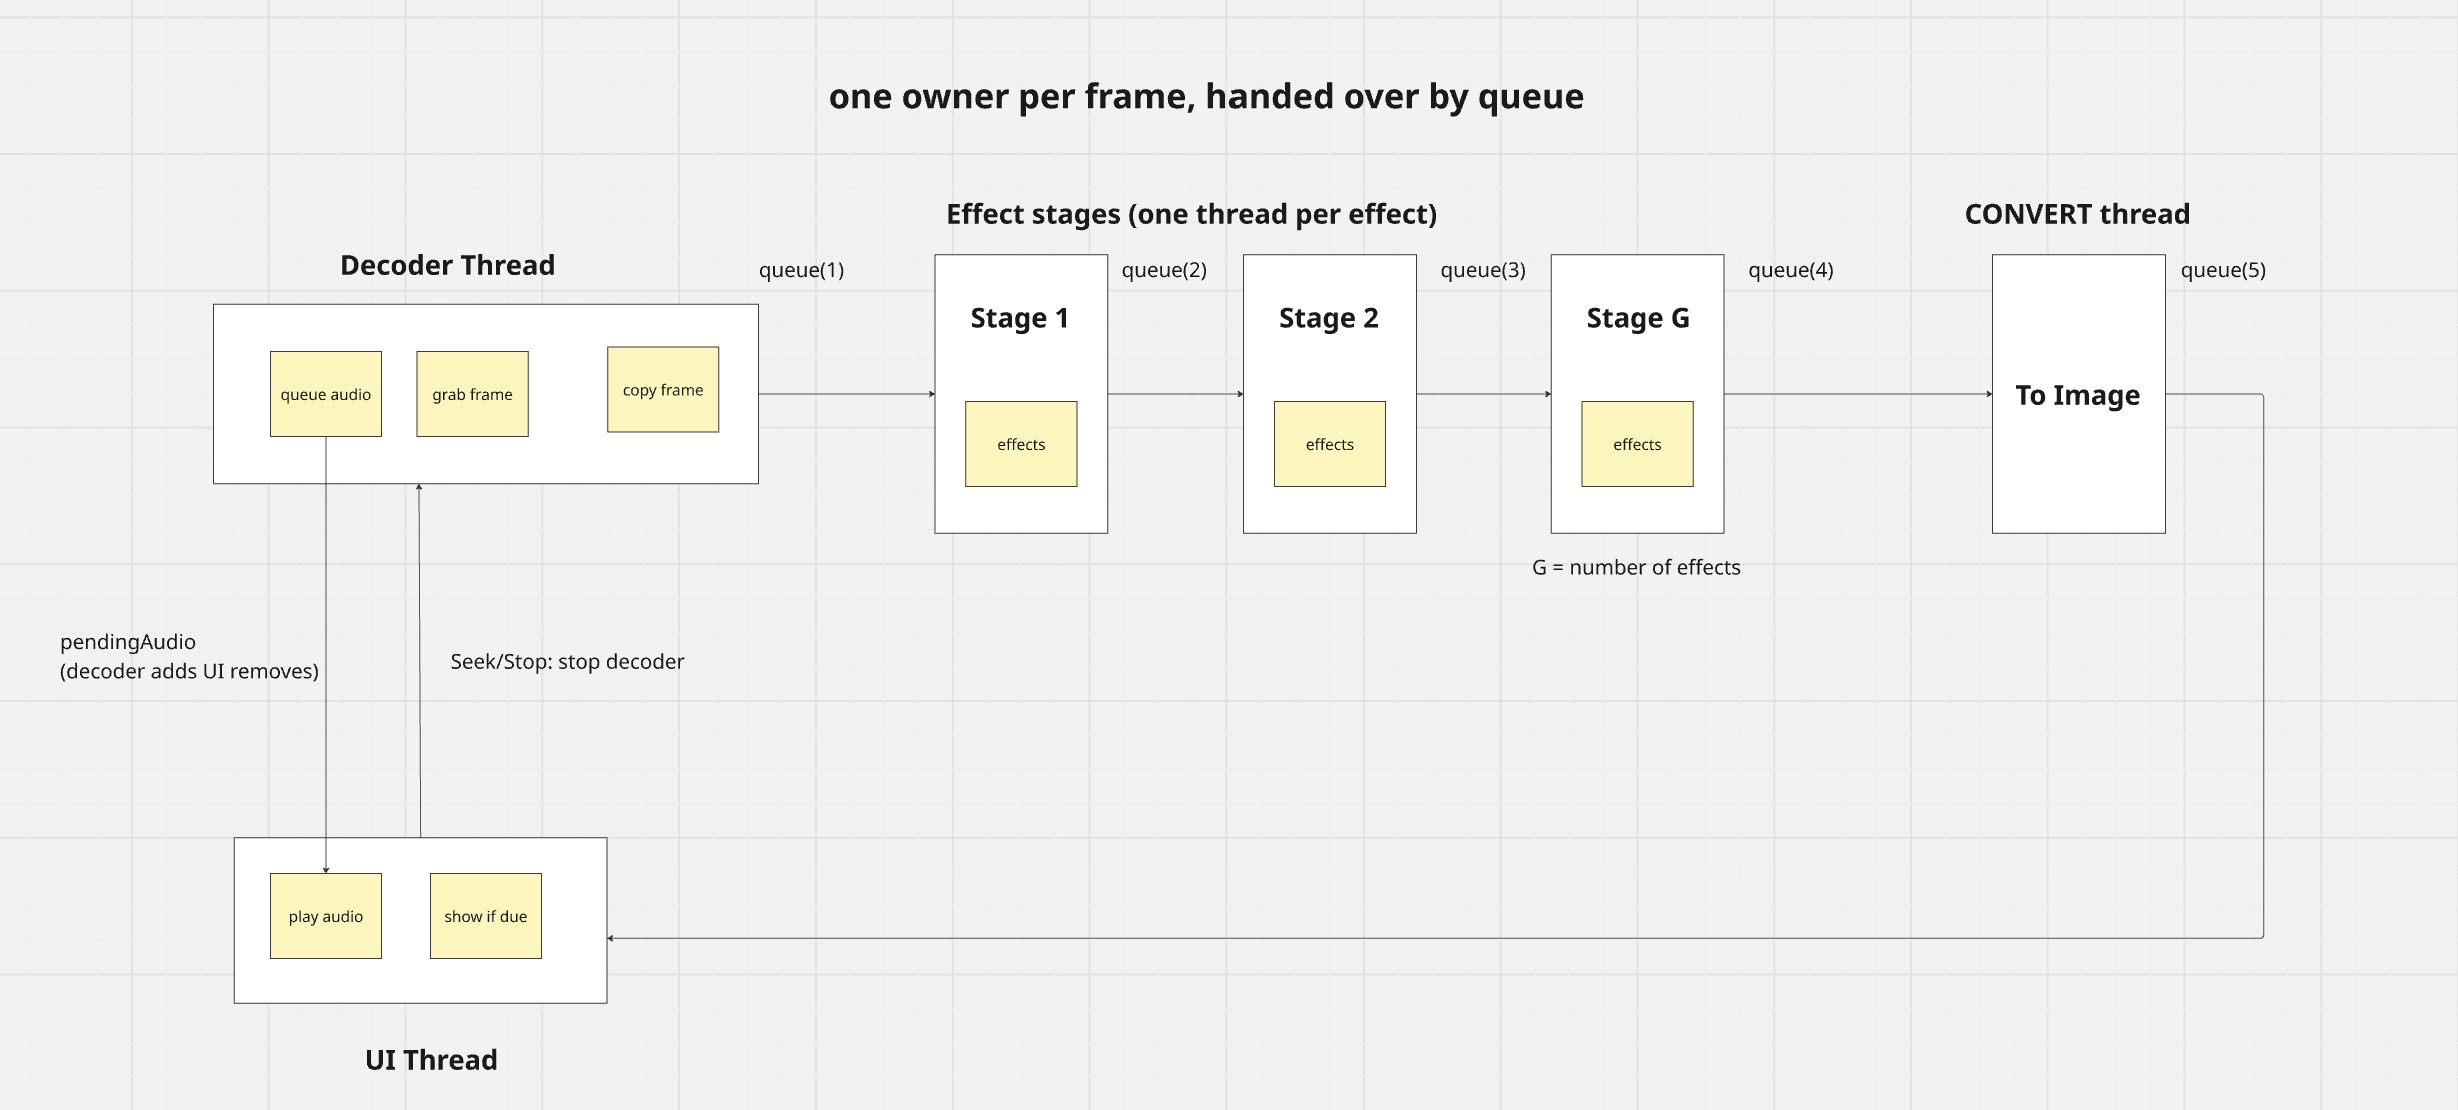
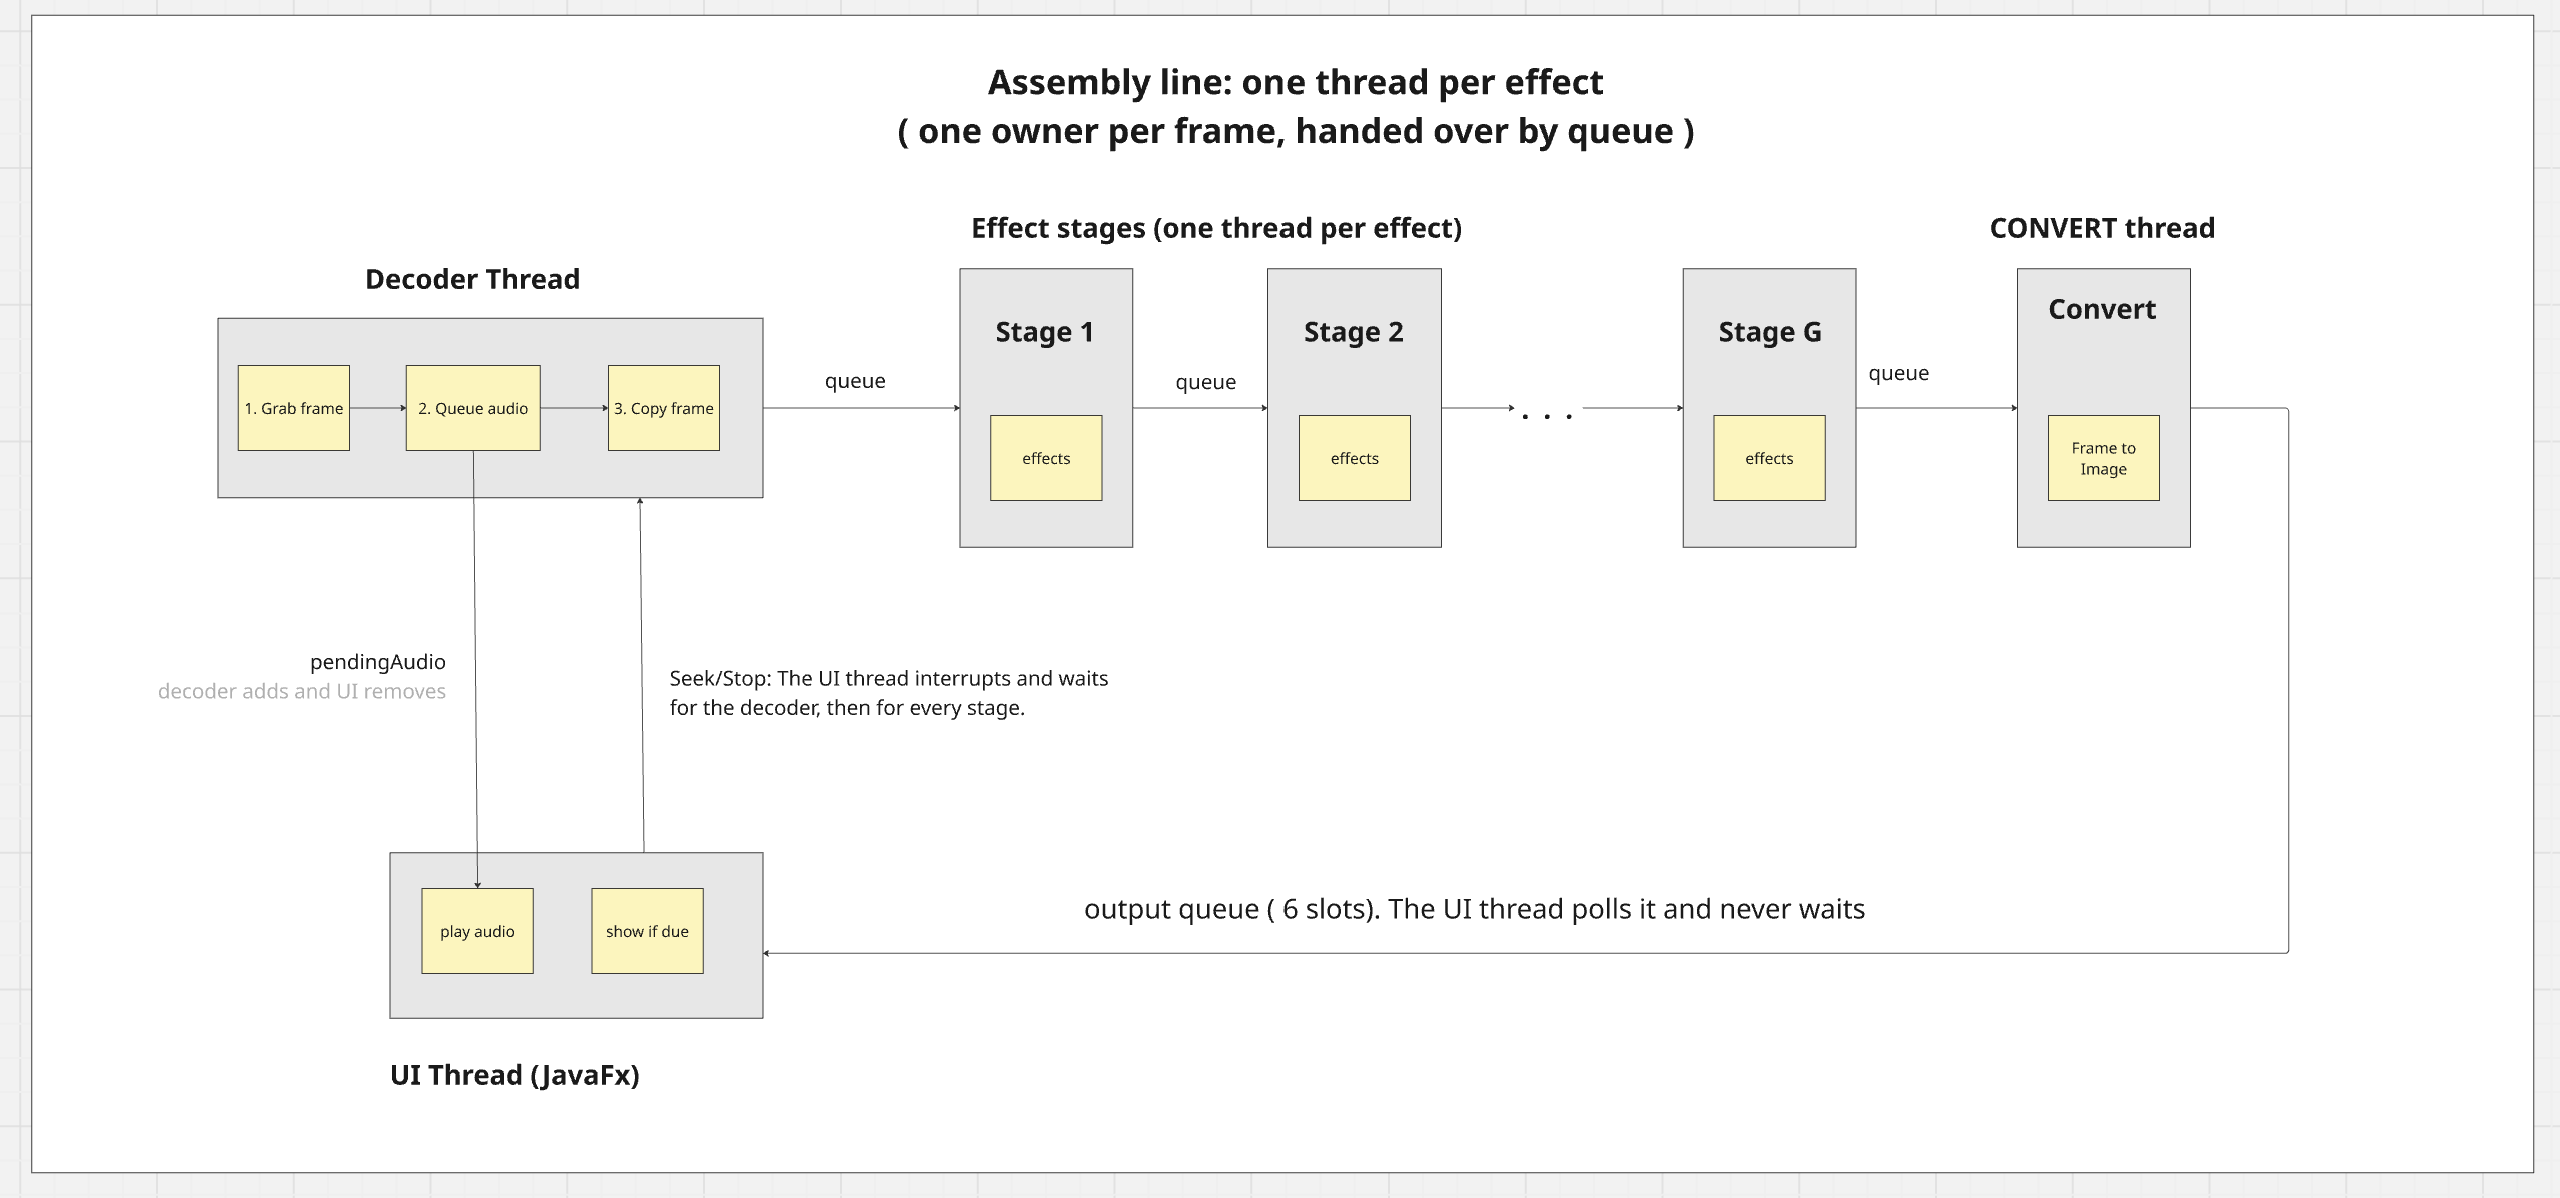
docs(readme): Update README with new pictures and explanations.

diff --git a/README.md b/README.md
@@ -30,6 +30,8 @@ In Eclipse, use *Run As > Maven build* with the same goals. Put the arguments in
 
 ![debug_time](assets/debug_time.png)
 
+==> More explaination how to read this in [Performance](#6-performance)
+
 ### Choosing effects (Part 1)
 
 Effects are chosen on the command line and applied **in the order typed**. They can be repeated and stacked.
@@ -51,6 +53,17 @@ Effects are chosen on the command line and applied **in the order typed**. They 
 `-nssn` means number, scratch, scratch, number. `--help` lists everything. Adding an effect needs one new line in
 `FrameProcessorOption`.
 
+### What changed for Part 1
+
+| File | What changed |
+|---|---|
+| `FrameProcessorOption` (new) | An enum with one line per effect, holding its short flag, long name, help text and constructor. Parsing and `--help` both read it, so adding an effect is one new line. |
+| `CommandLineController` | New `parseLongOption()` and `parseShortFlags()` replace the old if/else chain, so stacked flags (`-jfddn`), long names and repeated effects work. Every effect is created in the order typed and kept in a list, which `getFrameProcessors()` returns. `--help` alone is allowed, and `--help` with anything else is an error. `--help` now prints one line per effect from `FrameProcessorOption`. |
+| `VideoPlayerApp` | Passes `getFrameProcessors()` to the controller. |
+| `VideoPlayerController` | Has a new `frameProcessors` constructor parameter, which it passes on to the model. |
+| `FrameProcessor` | The Javadoc now says that a new effect is added by adding a constant to `FrameProcessorOption`. The code is unchanged. |
+| `VideoPlayerModel` | The list of effects written directly in the code is gone. It now receives the list built from the command line. |
+
 ---
 
 ## 2. The problem with the original design
@@ -61,17 +74,10 @@ One thread did everything: decode, every effect in turn, convert, drawing, audio
 UI thread:  [decode][effect 1][effect 2] ... [effect N][convert][show]   one frame at a time
 ```
 
-At 24 fps each frame has **41,667 µs**. Timings on a development machine (HD frame, 11 effects):
-
-| Step | Time |
-|---|---|
-| Decode | about 0.9 ms |
-| Effects, all 11 in turn | about 28 ms (Bleeder 8.3, Vignetter 6.2, Mottler 5.5, Black-and-white 4.1) |
-| Convert to an image | about 2.5 ms |
-| **Total** | **about 31 ms, so nearly the whole budget** |
+At 24 fps each frame has **41,667 µs** (1,000,000 µs divided by 24). Decoding and converting a frame take a small part of that, and the effects take the rest. Every effect added makes the effects part longer, so playback fell behind real time after only a few effects.
 
 Three problems followed:
-- The speed limit was the **sum** of all effects.
+- The speed limit was the **sum** of all the effects.
 - Only one core did the work.
 - There was a single frame slot with no buffer, so one slow frame was a visible stutter, and the window froze while a frame was made.
 
@@ -102,8 +108,7 @@ core always stays free for the UI thread and everything else. `-Dplayer.maxConcu
 ### Why it is faster
 
 Different frames are in different stages at the same time, so the speed limit becomes the **slowest stage**, not the
-sum of all of them. With the 11 effects the slowest stage is Bleeder at about 8 ms, against 31 ms in series. The UI thread
-only shows frames, so the window stays responsive.
+sum of all of them. With the 11 effects, the slowest single effect takes far less time than all of them together, and that is the new speed limit.
 
 A frame still goes through every effect in order, so the first frame is not faster. What improves is how often a
 finished frame comes out: once the line is full, one frame comes out every step of the slowest stage.
@@ -116,11 +121,11 @@ finished frame comes out: once the line is full, one frame comes out every step 
 |---|---|
 | **One owner at a time.** A frame is held by one thread and handed over through a queue. | The pixels need no locks. A queue hand-off is the only synchronisation. |
 | **One thread per effect instance.** | Jitterer, Mottler and Bleeder keep scratch buffers that change while they run. Two frames in the same instance at once would corrupt each other. |
-| **Bounded queues** (1 between stages, 6 before the display). | A fast stage waits for a slow one (back-pressure), so memory cannot grow without limit. An HD frame is several MB. The 6 slots also hide one slow frame from the display. |
+| **Bounded queues** (1 between stages, 6 before the display). | A fast stage waits for a slow one (back-pressure), so memory cannot grow without limit.An HD image is about 8 MB, so each extra slot costs about 8 MB. Six slots hold about a quarter of a second at 24 fps, which is enough to hide one slow frame from the display. A larger queue would not raise the average speed, because the slowest effect sets that, so I kept it small. The size is one constant, `OUTPUT_QUEUE_CAPACITY` in `FramePipeline`. |
 | **Frames are copied** (`Frame.clone()`) when they enter the pipeline. | The grabber reuses one `Frame` and overwrites it on the next grab. The copy gives each frame one owner. It is freed after conversion. |
 | **Effects keep their order.** | Effects do not commute (black-and-white then yellow is not yellow then black-and-white), and the output must match the reference. |
-| **Effect threads run below normal priority, and at most (cores − 1) effects work at once.** | With 40 effects there are far more busy threads than cores. On TITAN the top rung used 7.7 of 8 cores and a screenshot of the window sometimes timed out. Keeping one core free for the UI thread and the tools around it makes that less likely, and it costs about one core of speed. |
-| **Convert is its own stage.** | Its cost (about 2.5 ms) is not added to the last effect. |
+| **Effect threads run below normal priority, and at most (cores − 1) effects work at once.** | With 40 effects there are far more busy threads than cores. On TITAN the top rung used 7. 7 of 8 cores and a screenshot of the window sometimes timed out. Keeping one core free for the UI thread and the tools around it makes that less likely, and it costs about one core of speed. |
+| **Convert is its own stage.** | Its cost is not added to the last effect. |
 | **The clock starts when the first frame is shown**, not when it was decoded. | A frame can wait in a queue. That waiting must not make it look late. |
 | **The UI thread uses `poll()`, never `take()`.** | The UI can never wait on a queue and freeze. |
 | **The audio line opens only when sound is on.** Audio is only decoded while sound is on. | Opening and warming up the sound line is slow and was done even without `-a`. This gave a faster start. |
@@ -136,6 +141,7 @@ finished frame comes out: once the line is full, one frame comes out every step 
 | Effects hard-coded in the model | An effect list built from the command line (`FrameProcessorOption`) | This is what Part 1 needs: effects chosen in the order typed, and repeatable. |
 | The audio line opened every time | The audio line opened only when sound is on (`openAudioPlayer()`) | Opening it is slow, so it delayed startup for users who never turned sound on. |
 | The UI thread doing the frame work | The UI thread only shows frames that are due, using `poll()` | The window can no longer freeze waiting for a frame. |
+
 
 ### Alternative I tried and why I did not keep them
 

diff --git a/docs/TESTING.md b/docs/TESTING.md
@@ -23,15 +23,17 @@ The load test (`mvn verify`) compares both ways on your own machine. Result on 8
 
 ![load tests](/assets/load_tests.png)
 
-The test also checks that the pipeline gives exactly the same pixels, in the same order, as the single-threaded way. The speed-up depends on the machine and on how busy it is. On my machine it has ranged from about 3 to 6.5 times faster. On 4 or more cores the test requires the pipeline to be at least 1.2 times faster, not an exact number, so it does not fail by accident on a busy machine.  
+The test also checks that the pipeline gives exactly the same pixels, in the same order, as the single-threaded way. The speed-up depends on the machine and on how busy it is. On my machine it has ranged from about 2.7 to 6.1 times faster. On 4 or more cores the test requires the pipeline to be at least 1.2 times faster, not an exact number, so it does not fail by accident on a busy machine.  
 
 ## Frame-by-frame demo
 
-The load test shows the result. `PipelineDemo` shows the reason. It runs three fake effects that only wait (10 ms,
-20 ms and 10 ms, so one frame needs 40 ms to pass all of them) and prints when each frame finishes, first the original way
+The load test shows the result. `PipelineDemo` shows the reason. It runs three fake effects that only wait **10 ms**,
+**20 ms** and **10 ms**, so one frame needs **40 ms** to pass all of them. Then, it prints when each frame finishes, first the original way
 and then through the pipeline. Run it from Eclipse with Run As > Java Application.
 
 ![comparison-version](/assets/comparison_version.png)
+
+Both ways are run once without timing first, so that Java loading classes is not counted as frame time.
 
 The first frame is not faster, because it still has to pass every effect in order. While one
 frame is in the second effect, the next frame is already in the first, so a finished frame comes out every 20 ms instead of every 40 ms.

diff --git a/docs/AIUSAGE.md b/docs/AIUSAGE.md
@@ -10,8 +10,9 @@ Tool used: Claude Sonnet 5.5 (Anthropic), through Claude Code.
 - Reviewed the code and comments, and corrected mistakes (for example the debug print format and the test imports).
 
 ## What the AI did
-- Explained the starter code, and explained ideas such as `volatile`, `ConcurrentLinkedQueue`, back-pressure and why effects need an owner thread.
+- Explained hard definitions such as `volatile`, `ConcurrentLinkedQueue`, back-pressure and why effects need an owner thread.
 - Recommended me to add those classes (`FramePipeline`, `PipelineStage`, `FrameJob`), the unit tests and the load test. It also support on providing information where I should code, run, and change those classes and tests.
 - Helped improving code comments, the README and the testing notes.
+- Brainstormed approaches with me, including the assembly line, which I chose.
+- Reviewed my project against the marking rubric and pointed out mistakes.
 - Suggested commit messages.
-- Suggested and measured alternatives that did not work (grouping effects, a worker pool), which are described in the README.
